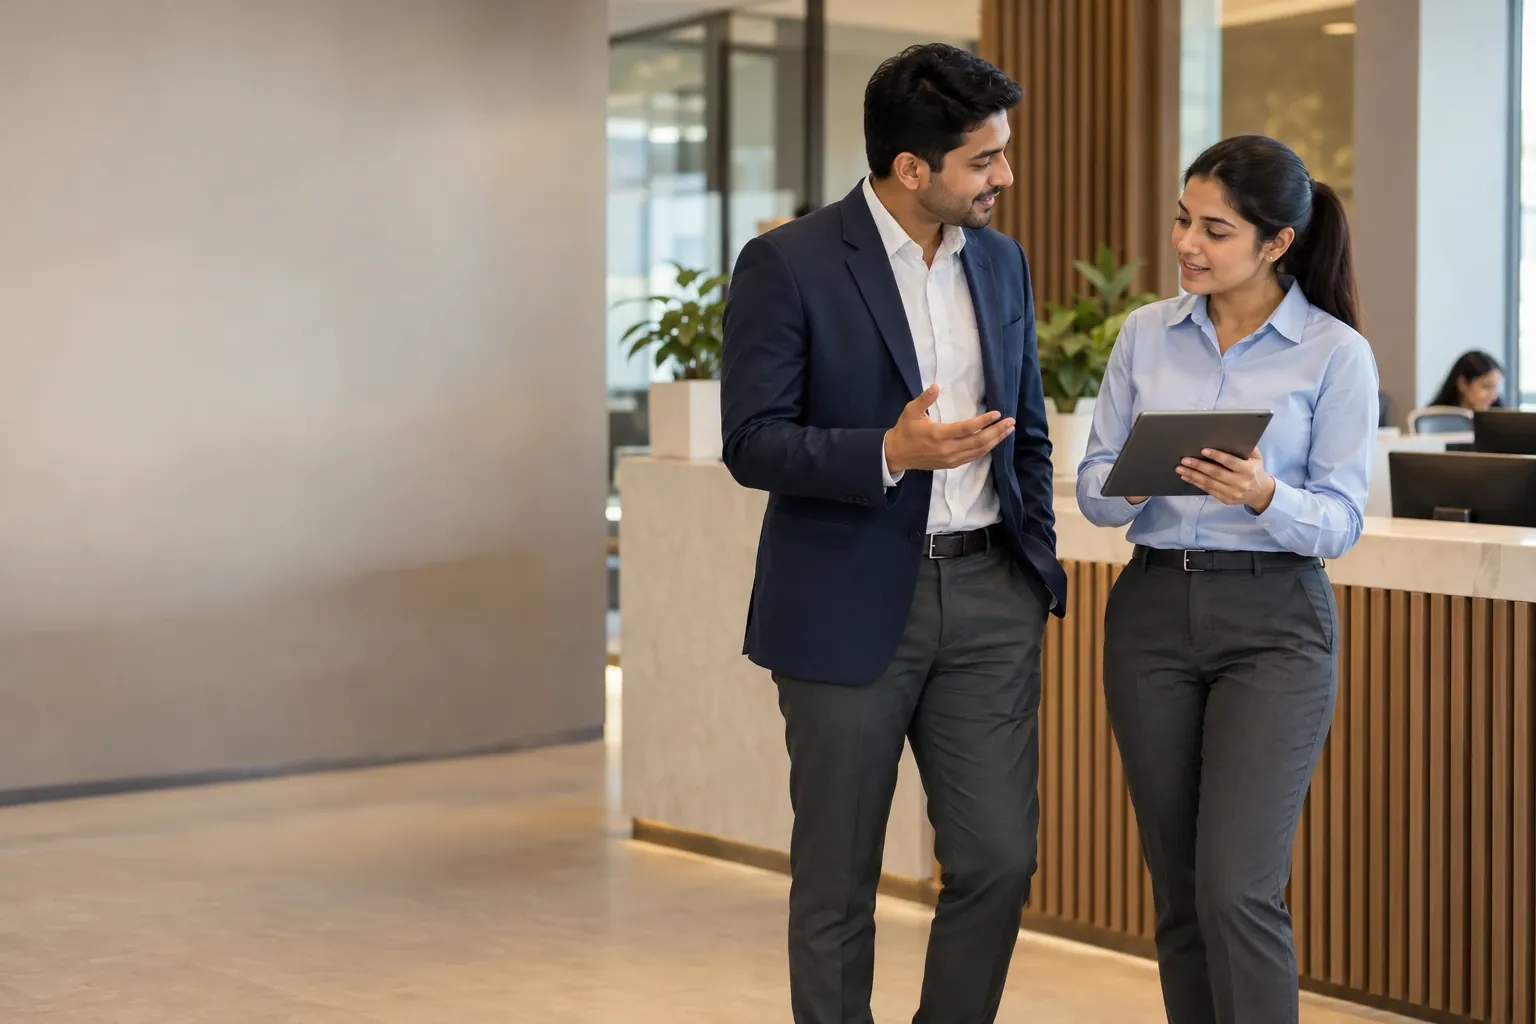
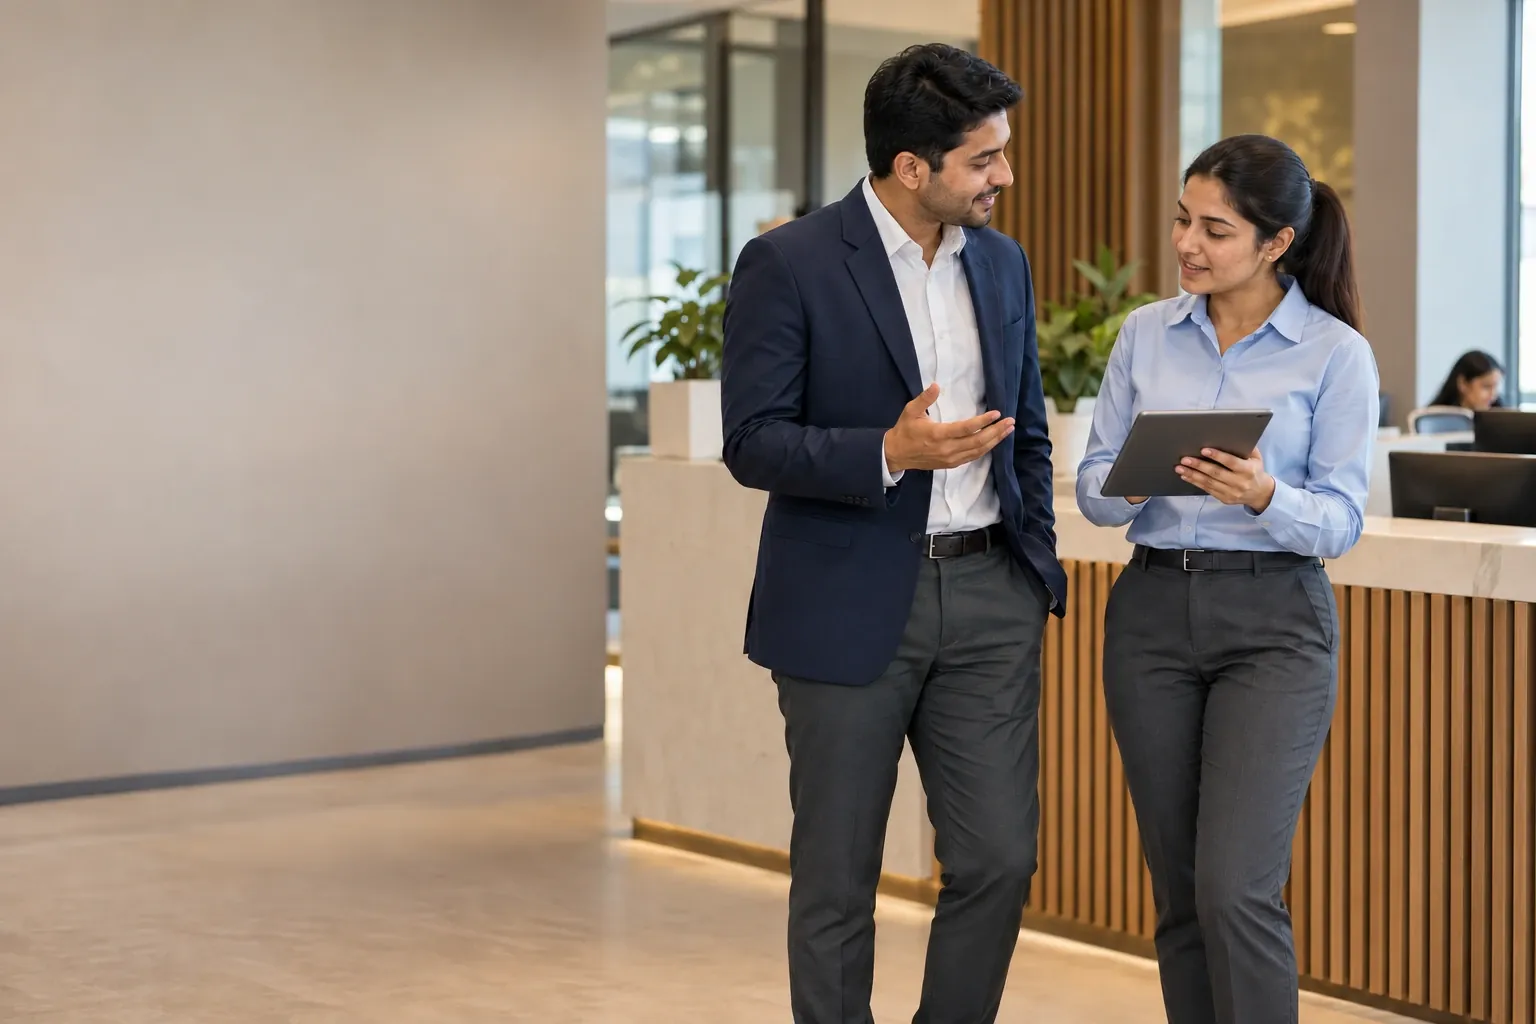
Hero: founder-approved photos for all four sectors on home and sector pages
Add the healthcare slide, use the corrected corporate and hospitality images,
swap sector-page heroes to the new photos with adjusted crops, and remove the
old baked-text banners.

Claude-Session: https://claude.ai/code/session_01RxwRgE7KUvNrLd3nmHnDoe

diff --git a/css/style.css b/css/style.css
@@ -682,7 +682,7 @@ footer.site-footer {
 .hb-caption {
   position: absolute; z-index: 2; top: 50%; transform: translateY(-50%);
   left: max(32px, calc((100% - var(--max-width)) / 2 + 32px));
-  max-width: 470px;
+  max-width: 440px;
 }
 .hb-sector {
   display: block; font-size: 0.76rem; font-weight: 600; letter-spacing: 0.16em;
@@ -693,7 +693,7 @@ footer.site-footer {
   font-size: clamp(2.6rem, 4.6vw, 4.1rem); line-height: 1.04; color: var(--black); margin-bottom: 18px;
 }
 .hb-title span { color: var(--bronze); }
-.hb-sub { font-size: 1rem; line-height: 1.65; margin-bottom: 20px; max-width: 420px; }
+.hb-sub { font-size: 1rem; line-height: 1.65; margin-bottom: 20px; max-width: 370px; }
 .hb-link { font-size: 0.9rem; font-weight: 600; color: var(--red); }
 .hb-link:hover { color: #942016; }
 .hero-banner-dots {
@@ -937,8 +937,8 @@ footer.site-footer {
 .sb-shot.ph .ph-txt { font-size: 0.68rem; color: var(--mgray); line-height: 1.4; }
 
 /* --- Sector page hero --- */
-.sector-hero { padding: 0; position: relative; width: 100%; aspect-ratio: 2.4/1; overflow: hidden; background: var(--cream-deep); }
-.sector-hero img { width: 100%; height: 100%; object-fit: cover; object-position: center; }
+.sector-hero { padding: 0; position: relative; width: 100%; aspect-ratio: 2.2/1; overflow: hidden; background: var(--cream-deep); }
+.sector-hero img { width: 100%; height: 100%; object-fit: cover; object-position: 50% 15%; }
 .sector-hero-cta { padding: 22px 0 0; }
 .sector-hero-cta .btn { }
 
@@ -1053,8 +1053,8 @@ footer.site-footer {
     padding: 26px 10px 9px;
     background: linear-gradient(to top, rgba(26,26,26,.85), rgba(26,26,26,.35) 55%, transparent);
   }
-  .sector-hero { aspect-ratio: 4/5; }
-  .sector-hero img { object-position: 62% center; }
+  .sector-hero { aspect-ratio: 4/3.3; }
+  .sector-hero img { object-position: 72% 20%; }
   .sector-hero-cta .btn { width: 100%; justify-content: center; }
   .cat-grid, .cat-grid.six { grid-template-columns: repeat(2, 1fr); }
   .client-logo { width: calc(50% - 8px); }

diff --git a/index.html b/index.html
@@ -52,6 +52,15 @@
     </div>
   </div>
   <div class="hero-banner-slide">
+    <img src="images/hero2-healthcare.jpg" srcset="images/hero2-healthcare-768.webp 768w, images/hero2-healthcare-1536.webp 1536w" sizes="100vw" width="1536" height="1024" alt="A nurse in a teal uniform with white piping, a doctor in a white lab coat over navy scrubs, and a staff member in maroon scrubs">
+    <div class="hb-caption">
+      <span class="hb-sector">Healthcare Uniforms</span>
+      <p class="hb-title">Crafted for <span>Care.</span></p>
+      <p class="hb-sub">Thoughtfully designed uniforms for healthcare professionals who deliver comfort, confidence and care — every single day.</p>
+      <a class="hb-link" href="healthcare-uniforms.html">Explore Healthcare Uniforms →</a>
+    </div>
+  </div>
+  <div class="hero-banner-slide">
     <img src="images/hero2-hospitality.jpg" srcset="images/hero2-hospitality-768.webp 768w, images/hero2-hospitality-1536.webp 1536w" sizes="100vw" width="1536" height="1024" alt="Hotel front-desk and restaurant staff in coordinated hospitality uniforms">
     <div class="hb-caption">
       <span class="hb-sector">Hospitality Uniforms</span>
@@ -73,6 +82,7 @@
     <button class="slide-dot active" type="button" aria-label="Show slide 1" onclick="showSlide(0)"></button>
     <button class="slide-dot" type="button" aria-label="Show slide 2" onclick="showSlide(1)"></button>
     <button class="slide-dot" type="button" aria-label="Show slide 3" onclick="showSlide(2)"></button>
+    <button class="slide-dot" type="button" aria-label="Show slide 4" onclick="showSlide(3)"></button>
   </div>
 </section>
 

diff --git a/school-uniforms.html b/school-uniforms.html
@@ -40,7 +40,7 @@
 </header>
 
 <section class="sector-hero">
-  <img src="images/hero-education.jpg" srcset="images/hero-education-1200.webp 1200w, images/hero-education-2400.webp 2400w" sizes="100vw" width="2400" height="1000" alt="School and Education Uniforms by Mechi">
+  <img src="images/hero2-education.jpg" srcset="images/hero2-education-768.webp 768w, images/hero2-education-1536.webp 1536w" sizes="100vw" width="1536" height="1024" alt="School and Education Uniforms by Mechi">
 </section>
 
 <div class="container">

diff --git a/hospitality-uniforms.html b/hospitality-uniforms.html
@@ -40,7 +40,7 @@
 </header>
 
 <section class="sector-hero">
-  <img src="images/hero-hospitality.jpg" srcset="images/hero-hospitality-1200.webp 1200w, images/hero-hospitality-2400.webp 2400w" sizes="100vw" width="2400" height="1000" alt="Hospitality Uniforms by Mechi">
+  <img src="images/hero2-hospitality.jpg" srcset="images/hero2-hospitality-768.webp 768w, images/hero2-hospitality-1536.webp 1536w" sizes="100vw" width="1536" height="1024" alt="Hospitality Uniforms by Mechi">
 </section>
 
 <div class="container">

diff --git a/healthcare-uniforms.html b/healthcare-uniforms.html
@@ -40,7 +40,7 @@
 </header>
 
 <section class="sector-hero">
-  <img src="images/hero-healthcare.jpg" srcset="images/hero-healthcare-1200.webp 1200w, images/hero-healthcare-2400.webp 2400w" sizes="100vw" width="2400" height="1000" alt="Healthcare Uniforms by Mechi">
+  <img src="images/hero2-healthcare.jpg" srcset="images/hero2-healthcare-768.webp 768w, images/hero2-healthcare-1536.webp 1536w" sizes="100vw" width="1536" height="1024" alt="Healthcare Uniforms by Mechi">
 </section>
 
 <div class="container">

diff --git a/corporate-uniforms.html b/corporate-uniforms.html
@@ -40,7 +40,7 @@
 </header>
 
 <section class="sector-hero">
-  <img src="images/hero-corporate.jpg" srcset="images/hero-corporate-1200.webp 1200w, images/hero-corporate-2400.webp 2400w" sizes="100vw" width="2400" height="1000" alt="Corporate Uniforms by Mechi">
+  <img src="images/hero2-corporate.jpg" srcset="images/hero2-corporate-768.webp 768w, images/hero2-corporate-1536.webp 1536w" sizes="100vw" width="1536" height="1024" alt="Corporate Uniforms by Mechi">
 </section>
 
 <div class="container">

diff --git a/CLAUDE.md b/CLAUDE.md
@@ -6,7 +6,7 @@ build step. Domain: https://mechihouse.com (not live yet).
 
 ## Structure
 
-- `index.html` — home (4-slide hero banner slider, sector showcase, trust band, reach path)
+- `index.html` — home (4-slide hero slider, sector cards, trust band, How It Works, reach path)
 - `about.html`, `why-mechi.html`, `what-we-make.html`, `contact.html`
 - Sector pages: `healthcare-uniforms.html`, `hospitality-uniforms.html`,
   `corporate-uniforms.html`, `school-uniforms.html` — all share one template
@@ -14,13 +14,13 @@ build step. Domain: https://mechihouse.com (not live yet).
 - `insights.html` + `blog-choosing-scrub-fabric.html`
 - `css/style.css` — all styling; `js/site.js` — mobile menu toggle (loaded on every page)
 - `images/` — logo (`logo-header.png` / `logo-white-trim.png` are cropped versions used in header/footer),
-  favicon, hero banners (`hero-*.jpg` originals + `hero-*-1200/2400.webp` used via srcset),
+  favicon, hero photos (`hero2-<sector>.jpg` + `-768/-1536.webp` via srcset; used on home and sector pages),
   `og-image.jpg` (link-preview card), product photos
 
 Header nav and footer are duplicated in every page: change them in all pages together.
 WhatsApp links carry a per-page prefilled message (`?text=`); keep that when adding new links.
-The home hero banners have the headline baked into the image; on mobile an HTML caption (`.hb-caption`)
-shows it instead.
+Hero photos are text-free; the home headline is HTML (`.hb-caption`) over a soft left fade (stacked above
+the photo on mobile). Keep people on the right two-thirds of any replacement photo.
 Canonical links use `https://mechihouse.com/<page>.html`.
 
 ## Brand rules (locked — do not change without the founders' approval)
@@ -47,8 +47,8 @@ Canonical links use `https://mechihouse.com/<page>.html`.
 
 - Home stats (founder-confirmed): 500+ organisations, 50,000+ employees outfitted, Pan-India delivery,
   international client in California, USA. ("100% quality-inspected" removed at founders' request.)
-- Hero banners: founders dislike the current AI images and a text-only hero; they approved generating new
-  AI hero images themselves (ChatGPT, prompts from Claude, text-free) until a mannequin shoot in a few weeks.
+- Hero photos: founder-approved AI images generated in ChatGPT (Nov 2026), text-free, in use on home + all
+  sector pages; temporary until a mannequin/real shoot. Old baked-text AI banners were removed.
 - Contact page has an enquiry form that sends via WhatsApp or email (no backend).
 - Decision: stay on this hand-coded site (no website builder); founders send changes to Claude.
 - Process facts (founder-confirmed, used in the 6-step How It Works on home + hospitality): mockups and
